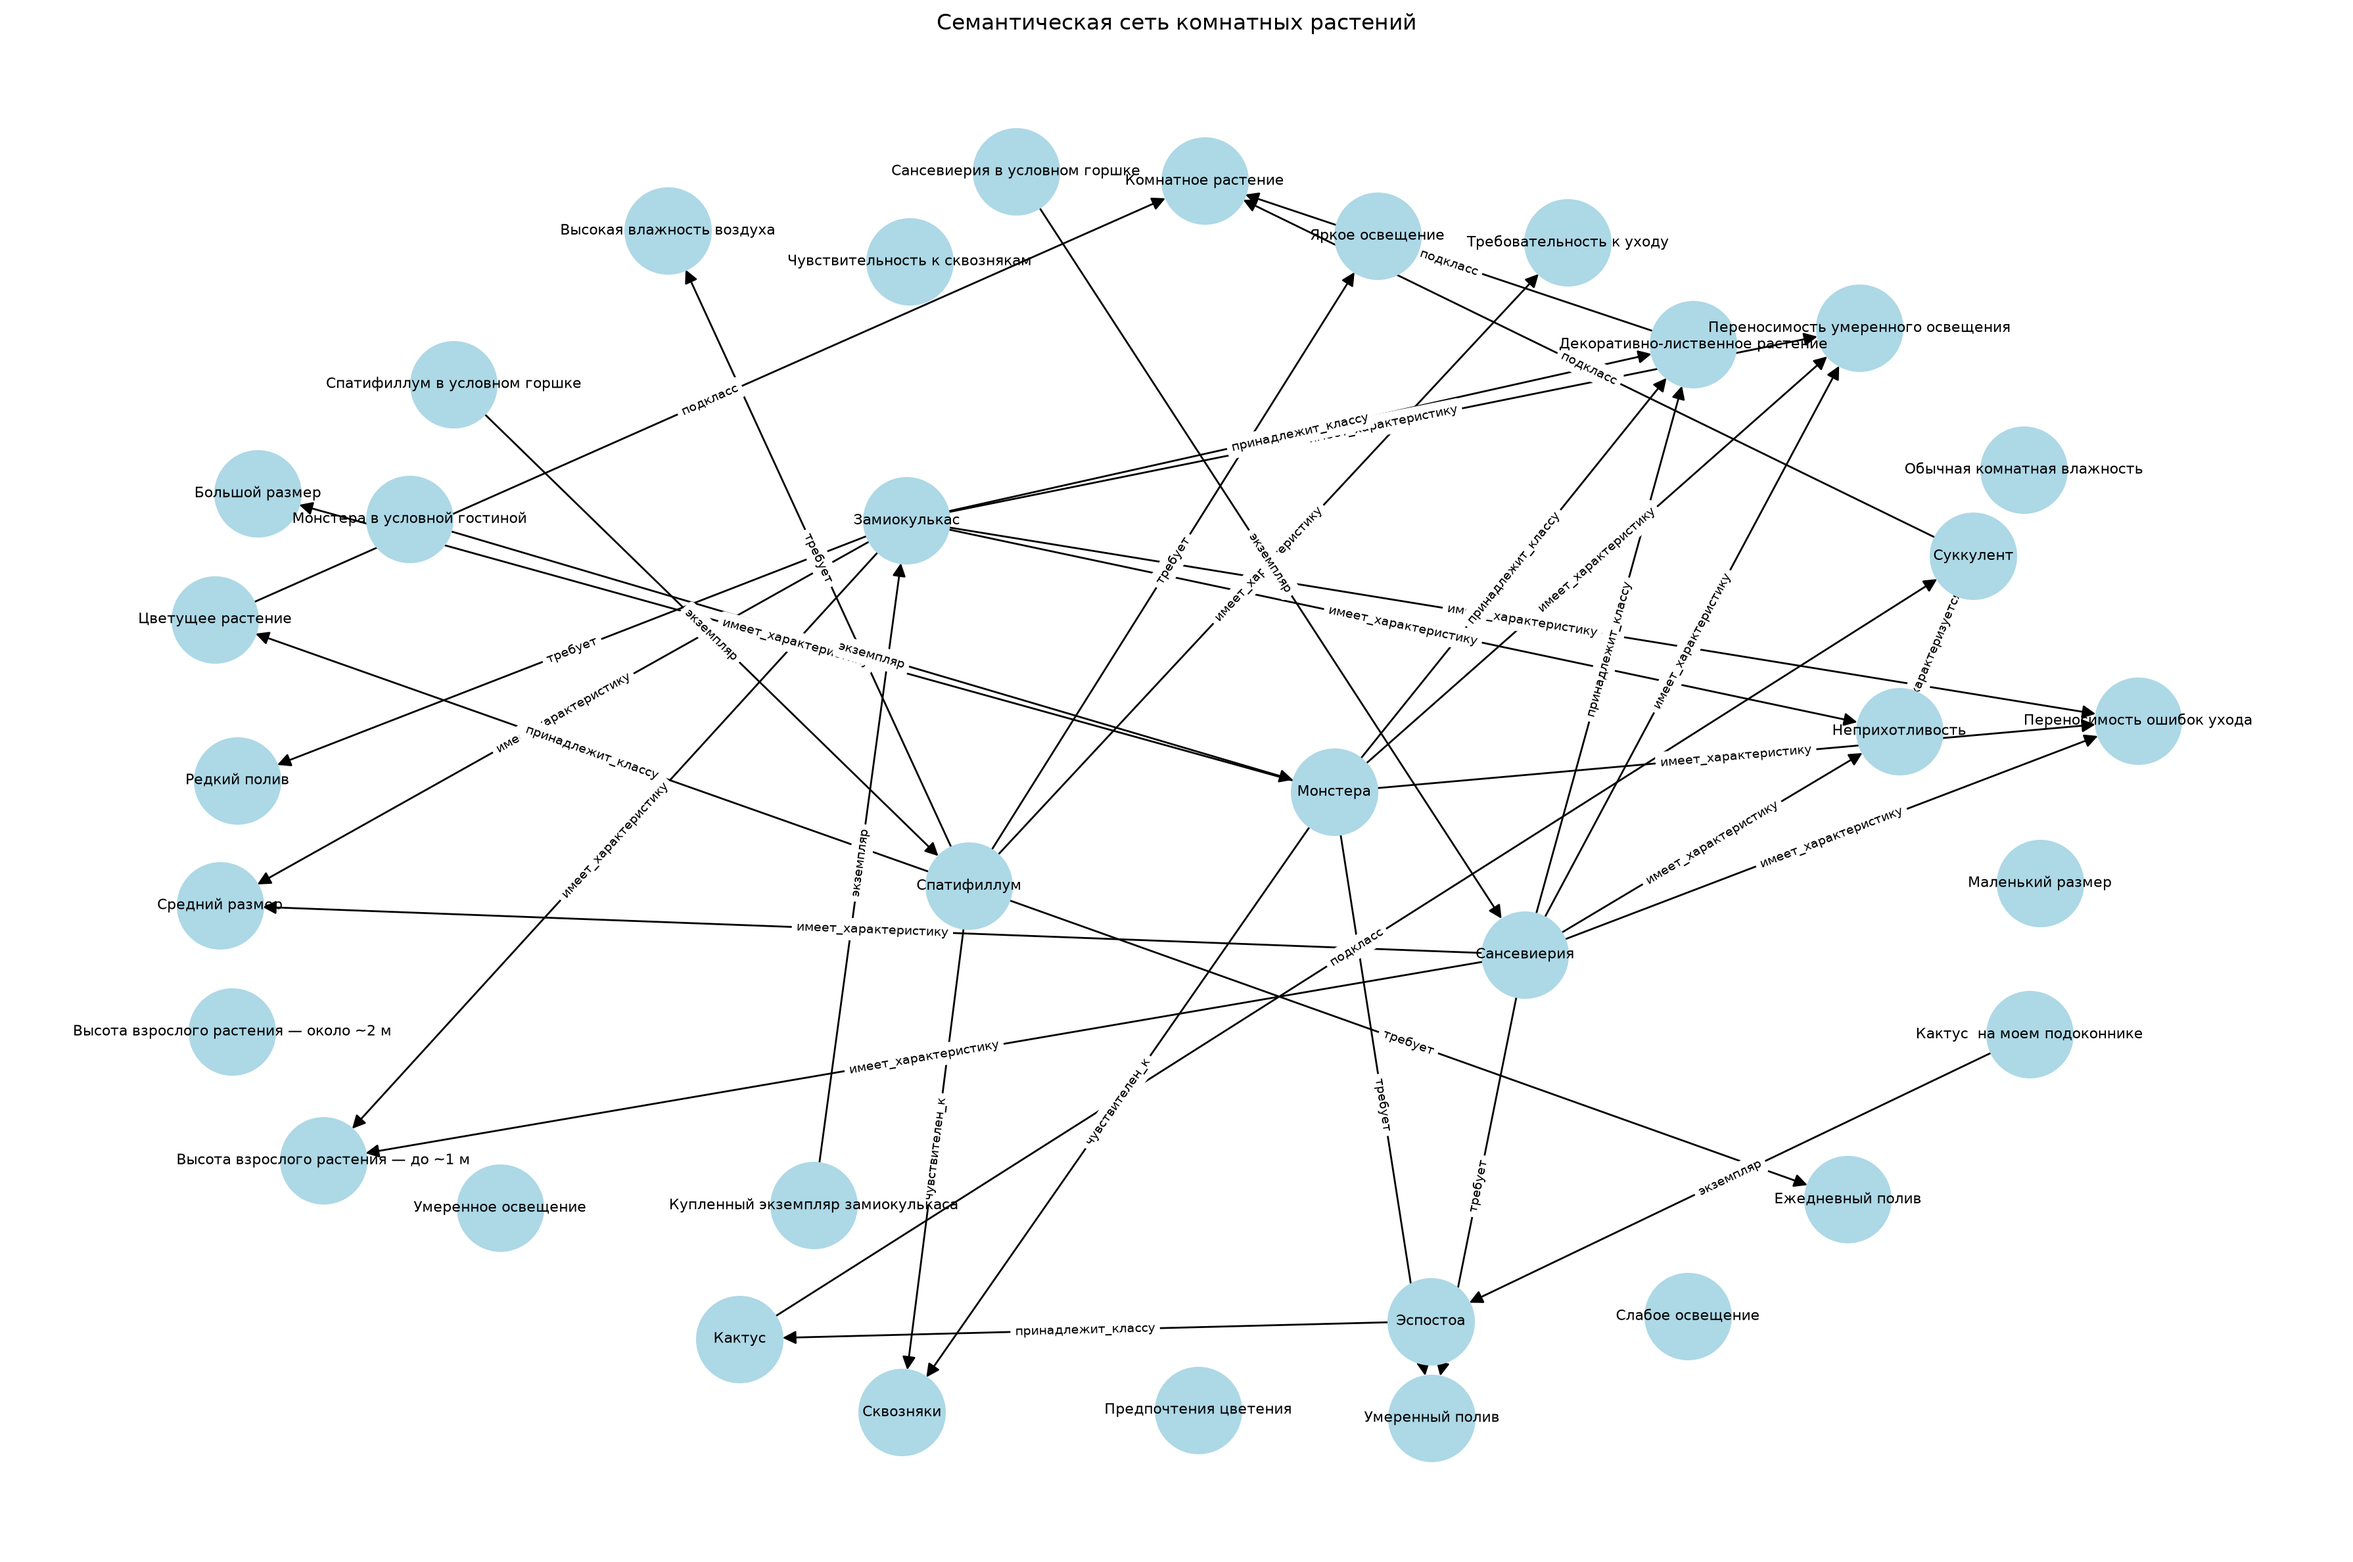
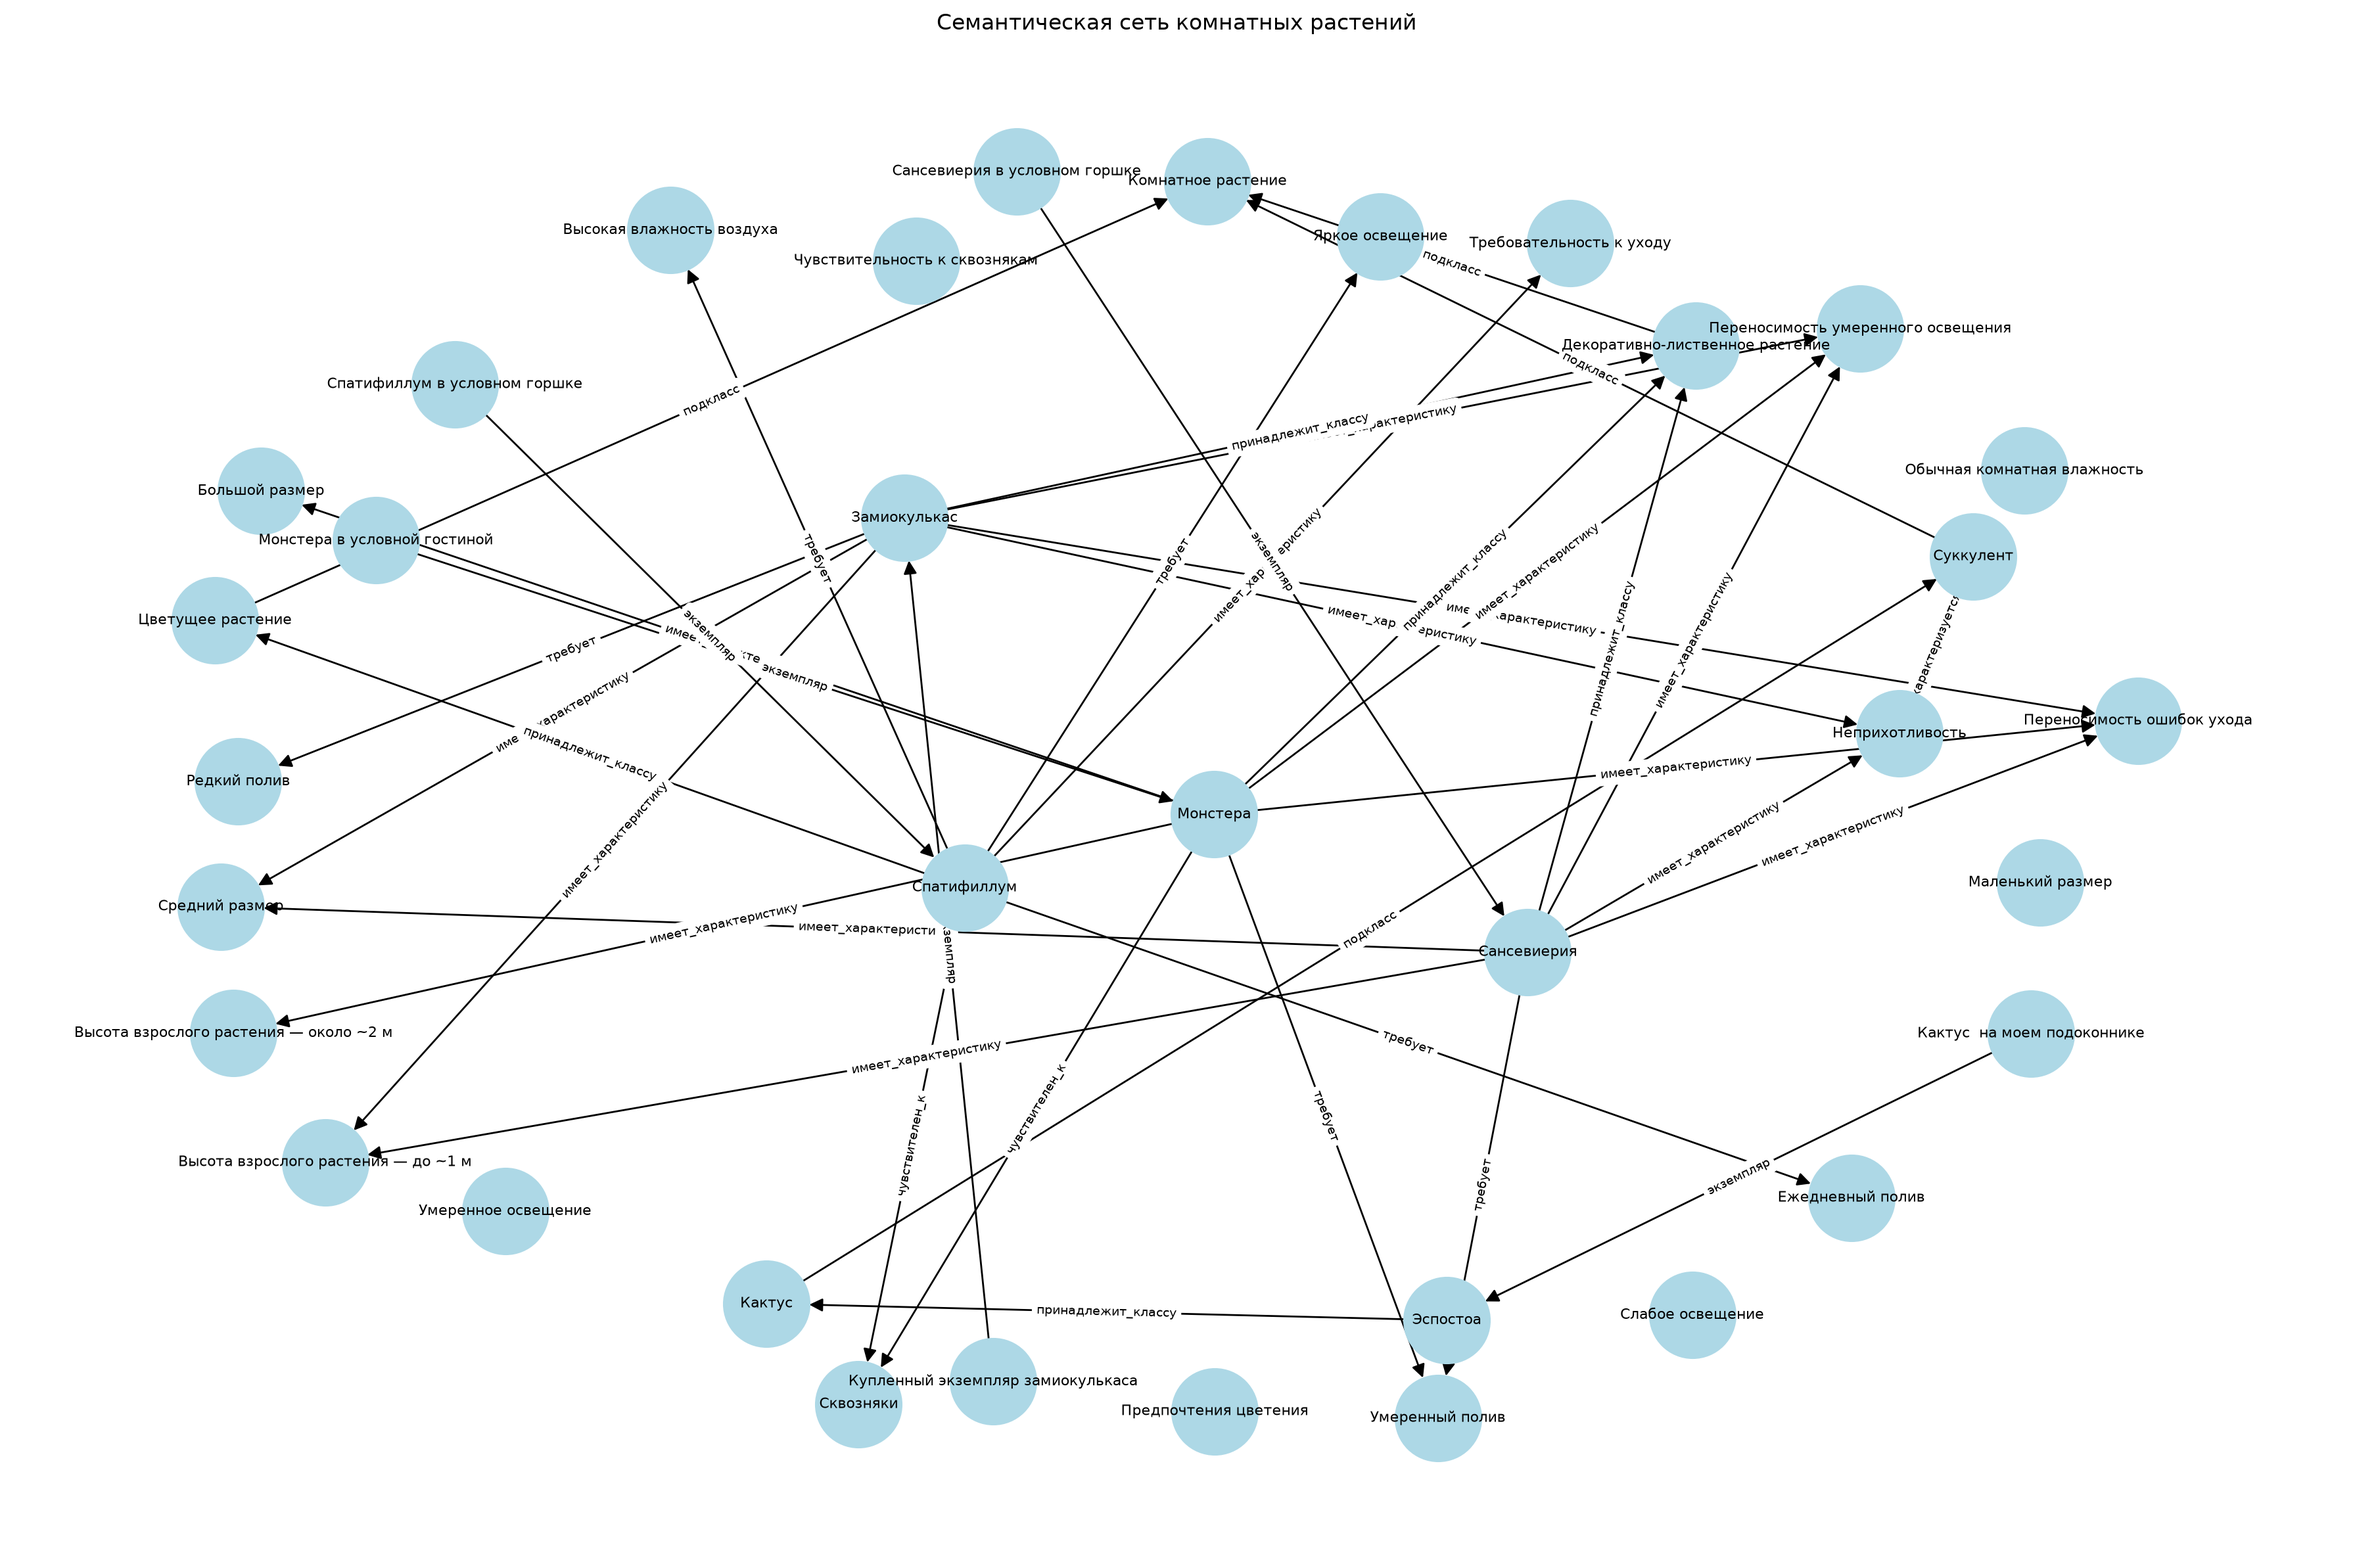
add: graph picture

diff --git a/1-AI-task/main.py b/1-AI-task/main.py
@@ -59,7 +59,7 @@ def show_path(source_id, target_id):
         )
 
 
-# 1. Проверяем корректность сети
+# Проверяем корректность сети
 errors = validate(network)
 
 if errors:
@@ -69,7 +69,7 @@ if errors:
 else:
     print("Ошибок не обнаружено.")
 
-# 2. Ищем соседей
+# Ищем соседей
 result = neighbors(
     node_id="PLT-001",
     relation_id="REL-004",
